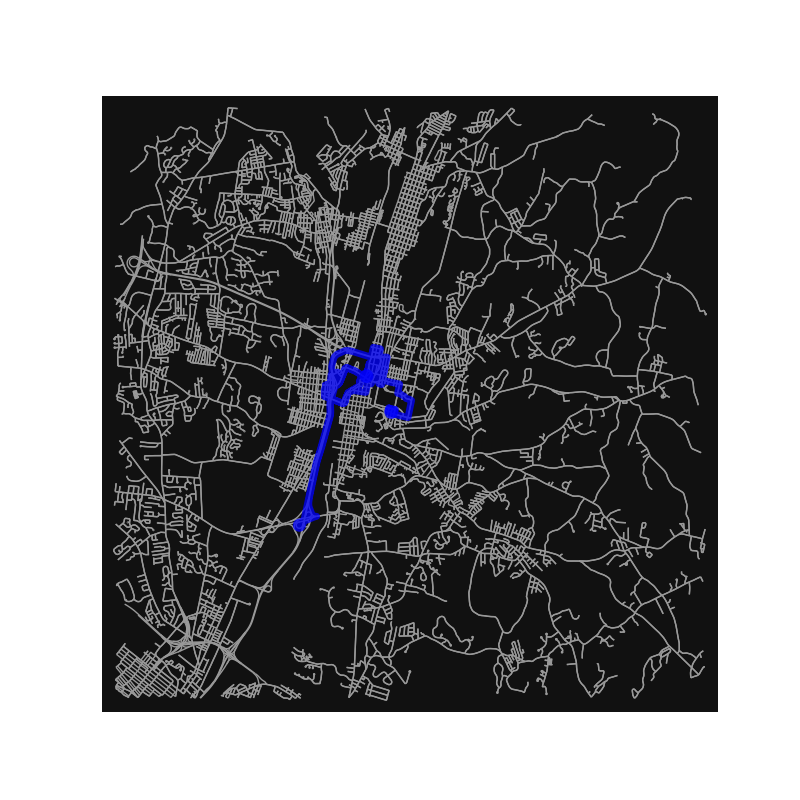
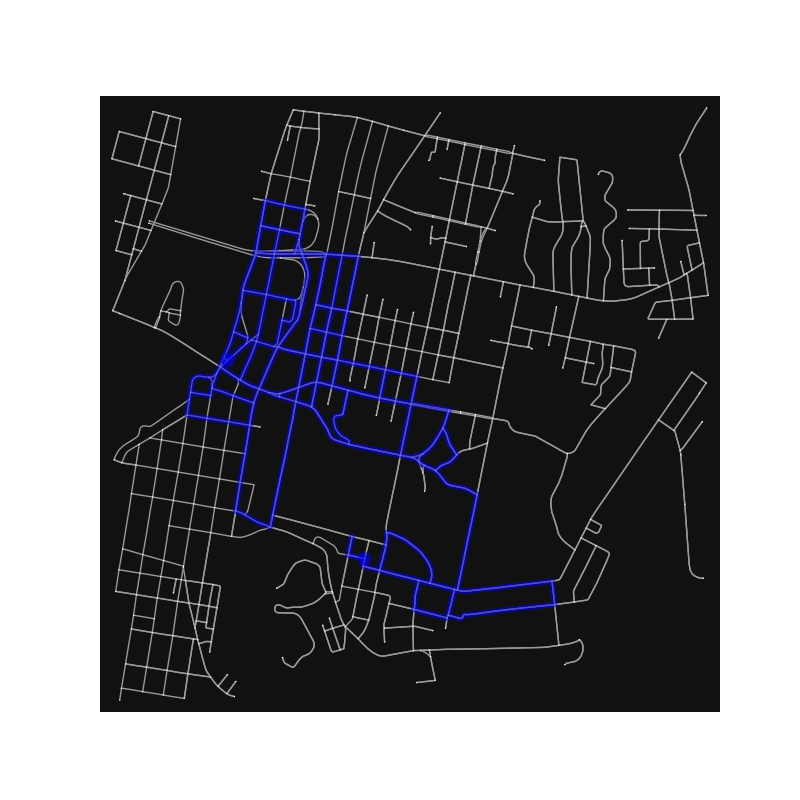
add heatmap, bug fixes

diff --git a/server/main.py b/server/main.py
@@ -1,14 +1,19 @@
 import argparse
 from concurrent import futures
 from multiprocessing import Manager
+import threading
 import logging
+import math
 import time
 
 from decouple import config
 import grpc
 import networkx as nx
 import osmnx as ox
+from osmnx import plot
 import psycopg2
+import matplotlib.cm as cm
+import matplotlib.pyplot as plt
 
 from gen import joyride_pb2
 from gen import joyride_pb2_grpc
@@ -42,6 +47,25 @@ get_nodes_query = """
 # Helpers #
 ###########
 
+def generate_heatmap(G, ranks):
+    map_name = "RdYlGn"
+    nx.set_node_attributes(G, ranks, "rank")
+    nc = plot.get_node_colors_by_attr(G, "rank", num_bins=20, cmap=map_name)
+    ns = 50
+
+    fig, ax = ox.plot_graph(G, node_color=nc, node_size=ns, edge_linewidth=1.5, 
+        figsize=(13, 13), bgcolor="white", show=False)
+
+    cmap = plt.cm.get_cmap(map_name)
+    norm=plt.Normalize(vmin=min(ranks.values()), vmax=max(ranks.values()))
+    cb = fig.colorbar(cm.ScalarMappable(norm=norm, cmap=cmap), ax=ax, orientation="horizontal", pad=0.05)
+    cb.set_label("PageRank", fontsize=20)
+
+    file = "heatmap.png"
+    fig.savefig(file)
+    print("Saved pagerank heatmap:", file)
+
+
 def add_node_interest(batch, P, G):
     """ Helper function to add a batch of (node, interest) rows to dictionary
         for page-rank.
@@ -57,6 +81,114 @@ def incr_dict(map, key, amount=1):
     if key not in map:
         map[key] = 0
     map[key] += amount
+
+
+def get_center(coords):
+    """ Gets the center coordinate (lat, lng) of a list of coordinate tuples.
+
+    Args:
+        coords: list of coordinate tuples
+
+    Returns:
+        Coordinate tuple of center point
+    """
+    n = len(coords)
+    if n == 1:
+        return coords[0]
+    
+    x, y, z = 0, 0, 0
+
+    for c in coords:
+        lat = c[0] * math.pi / 180
+        lng = c[1] * math.pi / 180
+
+        x += math.cos(lat) * math.cos(lng)
+        y += math.cos(lat) * math.sin(lng)
+        z += math.sin(lat)
+
+    x /= n
+    y /= n
+    z /= n
+
+    clng = math.atan2(y, x)
+    clat = math.atan2(z, math.sqrt(x * x + y * y))
+
+    return clat * 180 / math.pi, clng * 180 / math.pi
+
+
+def get_distance(c1, c2):
+    """ Returns approximate distance between two pairs of coordinates in km.
+
+    Args:
+        c1: coordinate pair 1
+        c2: coordinate pair 2
+
+    Returns:
+        distance in km between c1 and c2
+    """
+    # approximate radius of earth in km
+    R = 6373.0
+
+    lat1 = math.radians(c1[0])
+    lng1 = math.radians(c1[1])
+    lat2 = math.radians(c2[0])
+    lng2 = math.radians(c2[1])
+
+    dlon = lng2 - lng1
+    dlat = lat2 - lat1
+
+    a = math.sin(dlat / 2)**2 + math.cos(lat1) * math.cos(lat2) * math.sin(dlon / 2)**2
+    c = 2 * math.atan2(math.sqrt(a), math.sqrt(1 - a))
+
+    distance = R * c
+    return distance
+
+
+def load_subsection(G, path):
+    """ Loads subsection of roadnetwork graph
+
+    To save computation time when rendering the map for the user, we calculate a
+    subsection of the graph based on the center point of the two addresses.
+
+    Args:
+        start: Start address string
+        end: End address string
+
+    Returns:
+        A NetworkX MultiDiGraph
+    """
+
+    # Convert node 
+    coords = []
+    for id in path:
+        node = G.nodes[id]
+        coords.append((node["y"], node["x"]))
+
+    max_distance = 0
+    mc1, mc2 = None, None
+    for c1 in coords:
+        for c2 in coords:
+            dis = get_distance(c1, c2)
+            if dis > max_distance:
+                max_distance = dis
+                mc1 = c1
+                mc2 = c2
+
+    # Here we want to create a tight bounding box around the start and end points.
+    # This is accomplished by first finding the center point. Next, a distance is
+    # calcuated so that both points fit within the bounding box with some additional
+    # margin space.
+    margin_scale = 0.1
+    dis = max_distance * 1000  # Convert km to m
+    dis = dis / 2 + dis * margin_scale
+
+    G = ox.graph_from_point(get_center([mc1, mc2]), dist=dis, network_type="drive", simplify=True)
+
+    fig, _ = ox.plot_graph_route(G, path, route_color="b", route_linewidth=4, 
+                route_alpha=0.5, node_size=1, show=False, dpi=500)
+    file = "client/" + str(path[0]) + "_" + str(path[-1]) + ".png"
+    fig.savefig(file)
+    print("Saved route image:", file)
 
 
 class Joyride(joyride_pb2_grpc.JoyRideServicer):
@@ -94,7 +226,6 @@ class Joyride(joyride_pb2_grpc.JoyRideServicer):
 
         # Find shortest path weighted on pre-computed travel time
         total_time, route = nx.bidirectional_dijkstra(G, start_node, end_node, weight="travel_time")
-        stl = route[-2]
 
         target_time = request.time
         current_time = total_time
@@ -106,7 +237,7 @@ class Joyride(joyride_pb2_grpc.JoyRideServicer):
         while current_time < target_time - time_margin and step < eps:
             next_route = []
             last_node = start_node
-            for i in range(1, len(route)-1, 2):
+            for i in range(1, len(route) - 1, 2):
                 if current_time >= target_time - time_margin:
                     next_route.extend(route[i-1:-1])
                     break
@@ -119,7 +250,8 @@ class Joyride(joyride_pb2_grpc.JoyRideServicer):
 
                 left_node = route[i - 1]
                 right_node = route[i + 1]
-                if left_node == right_node:
+                if left_node == node or right_node == node:
+                    next_route.extend([left_node, right_node])
                     continue
                 left_edge = G.get_edge_data(last_node, node)
                 right_edge = G.get_edge_data(node, right_node)
@@ -134,7 +266,7 @@ class Joyride(joyride_pb2_grpc.JoyRideServicer):
                 if node in self.P:
                     interest = self.P[node]
                 rank += rank * interest
-                if rank >= self.average:
+                if rank >= self.average: 
                     above_thresh = True
                 
                 try:
@@ -164,12 +296,10 @@ class Joyride(joyride_pb2_grpc.JoyRideServicer):
             next_route.append(end_node)
             route = next_route
             step += 1
-            print("Current Time:", current_time)
 
-        # Save route image
-        fig, _ = ox.plot_graph_route(G, route, route_color="b", route_linewidth=5, 
-            route_alpha=0.75, node_size=0, show=False)
-        fig.savefig("client/" + str(start_node) + "_" + str(end_node) + ".png")
+        # Save route image on separate thread
+        thread = threading.Thread(target=load_subsection, args=(G, route))
+        thread.start()
 
         # Generate directions and node data and yield to gRPC client
         last_name = None
@@ -200,6 +330,8 @@ class Joyride(joyride_pb2_grpc.JoyRideServicer):
             last_bearing = bearing
 
             yield joyride_pb2.RideReply(node=route[i], message=msg)
+
+        thread.join()
     
     def GetRideRating(self, request, context):
         # Add node to database (Rating)
@@ -247,6 +379,8 @@ def serve(port, graph):
     # Do page-rank
     ranks = nx.pagerank(graph)
     print("Completed Page-Rank")
+    thread = threading.Thread(target=generate_heatmap, args=(G, ranks))
+    thread.start()
 
     # Calculate average interest
     avg_interest = 0
@@ -262,6 +396,7 @@ def serve(port, graph):
     print("Started server on port {}".format(port))
     server.wait_for_termination()
     conn.close()
+    thread.join()
 
 
 def load_data(address, r):

diff --git a/client/main.py b/client/main.py
@@ -2,106 +2,12 @@ import argparse
 import cmd
 from concurrent import futures
 import logging
-import math
 import shlex
 
 import grpc
-import networkx as nx
-import osmnx as ox
 
 from gen import joyride_pb2
 from gen import joyride_pb2_grpc
-
-
-def get_center(coords):
-    """ Gets the center coordinate (lat, lng) of a list of coordinate tuples.
-
-    Args:
-        coords: list of coordinate tuples
-
-    Returns:
-        Coordinate tuple of center point
-    """
-    n = len(coords)
-    if n == 1:
-        return coords[0]
-    
-    x, y, z = 0, 0, 0
-
-    for c in coords:
-        lat = c[0] * math.pi / 180
-        lng = c[1] * math.pi / 180
-
-        x += math.cos(lat) * math.cos(lng)
-        y += math.cos(lat) * math.sin(lng)
-        z += math.sin(lat)
-
-    x /= n
-    y /= n
-    z /= n
-
-    clng = math.atan2(y, x)
-    clat = math.atan2(z, math.sqrt(x * x + y * y))
-
-    return clat * 180 / math.pi, clng * 180 / math.pi
-
-
-def get_distance(c1, c2):
-    """ Returns approximate distance between two pairs of coordinates in km.
-
-    Args:
-        c1: coordinate pair 1
-        c2: coordinate pair 2
-
-    Returns:
-        distance in km between c1 and c2
-    """
-    # approximate radius of earth in km
-    R = 6373.0
-
-    lat1 = math.radians(c1[0])
-    lng1 = math.radians(c1[1])
-    lat2 = math.radians(c2[0])
-    lng2 = math.radians(c2[1])
-
-    dlon = lng2 - lng1
-    dlat = lat2 - lat1
-
-    a = math.sin(dlat / 2)**2 + math.cos(lat1) * math.cos(lat2) * math.sin(dlon / 2)**2
-    c = 2 * math.atan2(math.sqrt(a), math.sqrt(1 - a))
-
-    distance = R * c
-    return distance
-
-
-def load_subsection(start, end):
-    """ Loads subsection of roadnetwork graph
-
-    To save computation time when rendering the map for the user, we calculate a
-    subsection of the graph based on the center point of the two addresses.
-
-    Args:
-        start: Start address string
-        end: End address string
-
-    Returns:
-        A NetworkX MultiDiGraph
-    """
-
-    c1 = ox.geocode(start)
-    c2 = ox.geocode(end)
-
-    # Here we want to create a tight bounding box around the start and end points.
-    # This is accomplished by first finding the center point. Next, a distance is
-    # calcuated so that both points fit within the bounding box with some additional
-    # margin space.
-    margin_scale = 0.1
-    dis = get_distance(c1, c2)*1000  # Convert km to m
-    dis = dis/2 + dis*margin_scale
-
-    G = ox.graph_from_point(get_center([c1, c2]), dist=dis, network_type="drive", simplify=True)
-
-    return G
 
 
 def get_joyride(stub, start, end, time):
@@ -122,24 +28,20 @@ def get_joyride(stub, start, end, time):
     Returns:
         Returns a valid route from the gRPC server
     """
-    with futures.ThreadPoolExecutor() as executor:
-        future = executor.submit(load_subsection, start, end)
 
-        # Stream nodes from stub and calculate path
-        nodes = []
-        directions = []
+    # Stream nodes from stub and calculate path
+    nodes = []
+    directions = []
 
-        stream = stub.GetJoyRide(joyride_pb2.RideRequest(start=start, end=end, time=time))
-        for response in stream:
-            if response == grpc.aio.EOF:
-                break
+    stream = stub.GetJoyRide(joyride_pb2.RideRequest(start=start, end=end, time=time))
+    for response in stream:
+        if response == grpc.aio.EOF:
+            break
 
-            nodes.append(response.node)
-            if response.message != "":
-                directions.append(response.message)
-                print(response.message)
-
-        _ = future.result()
+        nodes.append(response.node)
+        if response.message != "":
+            directions.append(response.message)
+            print(response.message)
 
     return nodes
 
@@ -222,7 +124,14 @@ def run(ip, port):
         shell = AppShell(stub)
         while True:
             try:
-                print()
+                welcome = """
+                         __            ____  _     __   
+                        / /___  __  __/ __ \(_)___/ /__ 
+                   __  / / __ \/ / / / /_/ / / __  / _ \\
+                  / /_/ / /_/ / /_/ / _, _/ / /_/ /  __/
+                  \____/\____/\__, /_/ |_/_/\__,_/\___/ 
+                             /____/                     \n"""
+                print(welcome)
                 shell.cmdloop()
                 break
             except KeyboardInterrupt:
